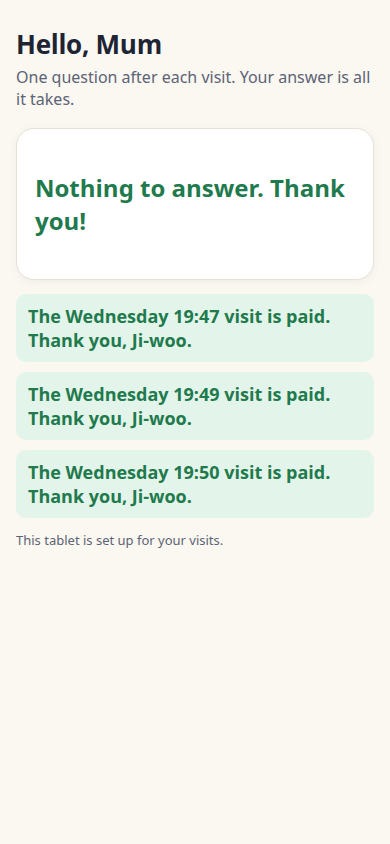
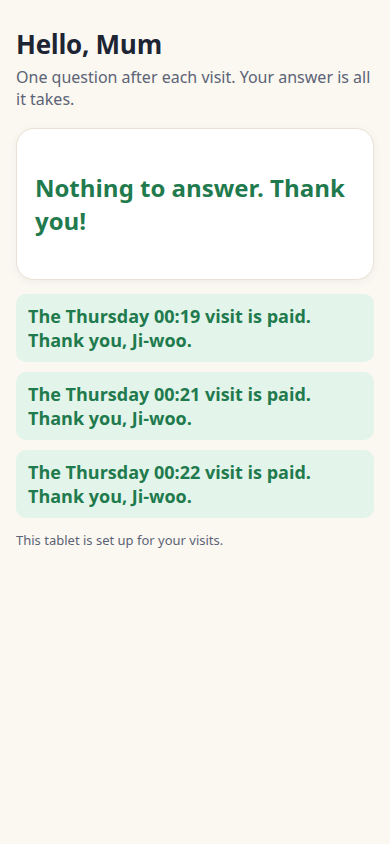
v2 testnet run: payment amount + settlement on chain, agency acks, cap trip, failure modes

Changed region(s): [[0.1538, 0.5545, 0.8308, 0.5853], [0.1538, 0.4621, 0.8308, 0.4929], [0.1538, 0.3697, 0.8308, 0.4005]]

diff --git a/demo/index.html b/demo/index.html
@@ -10,51 +10,56 @@
 <h1>Pay mum's carer only for the visits that happened.</h1>
 <p class="sub">Mina works in Seoul. Her mother lives in Busan, and a carer visits her. Mum answers one question after each visit, and Mina's agent pays the agency's agent through HSP only for the visits Mum confirms.</p>
 
-<section class="card note"><p><b>This page is the record of one real run.</b> 25 Nov 2026, 21:46:30 to 21:59:39 KST, on <b>HSK Chain testnet</b> with <b>real HSP QA payments</b> (HSP's QA environment settles in Circle test USDC on Ethereum Sepolia). It is read-only: it holds no keys and cannot pay anyone.</p></section>
+<section class="card note"><p><b>This page is the record of one real run.</b> 26 Nov 2026, 02:18:33 to 02:31:20 KST, on <b>HSK Chain testnet</b> with <b>real HSP QA payments</b> (HSP's QA environment settles in test USDC on Ethereum Sepolia). It is read-only: it holds no keys and cannot pay anyone.</p></section>
 
-<section class="card"><h2>The run in 71 seconds</h2><video controls preload="none" playsinline width="1920" height="1080" poster="poster.jpg" src="caremandate-demo.mp4"></video><p class="small">Captions only, no sound. <a href="caremandate-demo.mp4">Open the video file</a>.</p></section>
+<section class="card"><h2>The first testnet run, filmed (71 s)</h2><video controls preload="none" playsinline width="1920" height="1080" poster="poster.jpg" src="caremandate-demo.mp4"></video><p class="small">Captions only, no sound. Filmed on an earlier run (<code>testnet-20261125T1246Z</code>, before the payment-record, cap and agency-receipt features); the record below is of this run. <a href="caremandate-demo.mp4">Open the video file</a>.</p></section>
 
 <section class="card stat" aria-label="Run summary"><div><b>5</b>visits</div><div><b>4</b>paid via HSP</div><div><b>1</b>not paid</div><div><b>1</b>held for Mina</div></section>
 
 <section class="card"><h2>Mina's rules, on chain</h2>
-<dl><div><dt>Contract (HSK Chain testnet)</dt><dd><a href="https://testnet-explorer.hsk.xyz/address/0x203351f807514944873b49cd9d36b5af74de094c" rel="noopener"><code>0x203351f807514944873b49cd9d36b5af74de094c</code></a></dd></div>
-<div><dt>Deployed</dt><dd><a href="https://testnet-explorer.hsk.xyz/tx/0xf211dc8ae750822fb20a22ae7292c204c28286af0079761f3a7292e4241718b5" rel="noopener">0xf211dc…1718b5</a></dd></div>
-<div><dt>Mandate 1</dt><dd><a href="https://testnet-explorer.hsk.xyz/tx/0xfcb0a48dddce8da19fc93a86b0852fa0d3f69560a7ba0523a358f2ef7f304d3f" rel="noopener">0xfcb0a4…304d3f</a><span class="h">at most 3 visits a week, at most 45,000 won a visit; only the agency <code>0xA8A4…62a48D</code> can be paid; only Mum's tablet key <code>0x4Af9…39FbE9</code> can confirm</span></dd></div></dl>
+<dl><div><dt>Contract (HSK Chain testnet)</dt><dd><a href="https://testnet-explorer.hsk.xyz/address/0xa95ac53799f6770a2a907487edc367c26795fd26" rel="noopener"><code>0xa95ac53799f6770a2a907487edc367c26795fd26</code></a></dd></div>
+<div><dt>Deployed</dt><dd><a href="https://testnet-explorer.hsk.xyz/tx/0xc9f0258db0331eea736ca8a7f2ed8541bb4127461683d69b51f2f02f254280db" rel="noopener">0xc9f025…4280db</a></dd></div>
+<div><dt>Mandate 1</dt><dd><a href="https://testnet-explorer.hsk.xyz/tx/0x0e7e5414c3dc0fc0dbc794d18d3f810a8bc514ec1afeb5ef228c6505824c878a" rel="noopener">0x0e7e54…4c878a</a><span class="h">at most 3 visits a week, at most 45,000 won a visit; only the agency <code>0xA8A4…62a48D</code> can be paid; only Mum's tablet key <code>0x4e99…0Ea912</code> can confirm</span></dd></div>
+<div><dt>Won to test USDC, on chain</dt><dd>743273 USDC units per 1,000,000 won<span class="h">1345.4 won per dollar (ECB reference rate via api.frankfurter.dev, 2026-11-25), testnet scale 1:1000: 45,000 won = $0.03 test USDC (at full scale $33.44). The contract refuses to record a payment above a visit's won price at this rate + 5%.</span></dd></div>
+<div><dt>Over the cap: refused</dt><dd><b class="no">46,000 won visit refused</b> by the contract (<code>BadInput</code>); it never became a visit<span class="h">Re-checked when this page was built: the agency posting 46,000 won to this contract still reverts.</span></dd></div></dl>
 <p class="small">The contract holds no money: HSP moves it. The contract decides what may be paid, and records each HSP payment against its visit.</p></section>
 
 <h2 class="sec">Every visit</h2>
[1 lines of base64/hex data omitted]
-<div class="vh"><div><h3>Visit 1</h3><p class="small">Wednesday 25 Nov, 19:47 KST · Ji-woo · 45,000 won</p></div><span class="pill Paid">paid</span></div>
-<dl><div><dt>Agency agent posts the visit</dt><dd><a href="https://testnet-explorer.hsk.xyz/tx/0x65b97c3ab8b23228727c2cabb827d14a823353b771669663c8823f7f548d5631" rel="noopener">0x65b97c…8d5631</a><span class="h">receipt 0x47aa36d9…7dea2d</span></dd></div><div><dt>Mum answers on her tablet</dt><dd><b class="ok">Yes</b> · <a href="https://testnet-explorer.hsk.xyz/tx/0x650e4016c5bf1b30b1eea51c0c11877388f454407aebafa6edcfeb2b3fb85cfe" rel="noopener">0x650e40…b85cfe</a><span class="h">21:47:19 KST, signed by the tablet, relayed by Mina's agent</span></dd></div><div><dt>HSP Agentic Payment</dt><dd><b class="ok">payment-safe</b>, 178 s after the order was created<span class="h">flow <code>91545a99-9d3b-4e2b-8381-376b66abab3d</code></span><span class="h">request <code>CARE-PR-20261125124720-2fedbe</code></span></dd></div><div><dt>Money moved (Ethereum Sepolia)</dt><dd>$0.01 test USDC · <a href="https://sepolia.etherscan.io/tx/0x64bdbedcd8ac24eb5458fb8d1d46986deac4ac761ef677fe3164520754b90fb2" rel="noopener">0x64bdbe…b90fb2</a></dd></div><div><dt>Paid, recorded on HSK Chain</dt><dd>markPaid · <a href="https://testnet-explorer.hsk.xyz/tx/0x511b975d8c203ac17511a3adbeb020fe380a1acfd82422c6b2e45a7aaf011075" rel="noopener">0x511b97…011075</a><span class="h">paymentRef = keccak256(flow id) = <code>0x1ae56093…436c74</code></span></dd></div></dl>
[1 lines of base64/hex data omitted]
+<div class="vh"><div><h3>Visit 1</h3><p class="small">Thursday 26 Nov, 00:19 KST · Ji-woo · 45,000 won</p></div><span class="pill Paid">paid</span></div>
+<dl><div><dt>Agency agent posts the visit</dt><dd><a href="https://testnet-explorer.hsk.xyz/tx/0x13b2471222fe2ffac72bda44c010c74df23f24ef9ecd93a6572feb6bd9e8ed64" rel="noopener">0x13b247…e8ed64</a><span class="h">receipt 0x3455cc5a…1f9d1c</span></dd></div><div><dt>Mum answers on her tablet</dt><dd><b class="ok">Yes</b> · <a href="https://testnet-explorer.hsk.xyz/tx/0x7914fc33163a715165ee92d434eb92785afa9fa4c49d466f717f178744d55c37" rel="noopener">0x7914fc…d55c37</a><span class="h">02:19:40 KST, signed by the tablet, relayed by Mina's agent</span></dd></div><div><dt>HSP Agentic Payment</dt><dd><b class="ok">payment-safe</b>, 164 s after the order was created<span class="h">flow <code>e9f4e4d6-8439-4d61-abdb-825c2fad78b2</code></span><span class="h">request <code>CARE-PR-20261125171943-477307</code></span></dd></div><div><dt>Money moved (Ethereum Sepolia)</dt><dd>$0.03 test USDC · <a href="https://sepolia.etherscan.io/tx/0x7b5a9a9e3af4362bbd1231c0096735d34236845c242a5dfa100928ebe897f5bd" rel="noopener">0x7b5a9a…97f5bd</a><span class="h">45,000 won at the mandate rate = at most $0.03; asked HSP for $0.03</span></dd></div><div><dt>Paid, recorded on HSK Chain</dt><dd>markPaid · <a href="https://testnet-explorer.hsk.xyz/tx/0x2dda460075772a148a5c17ff4119cdf18d90f472f389e79ac1f4819ca2225f0c" rel="noopener">0x2dda46…225f0c</a><span class="h">paymentRef = keccak256(flow id) = <code>0x4cdb0339…adcb92</code></span></dd></div><div><dt>Agency's agent confirms receipt</dt><dd>ackPaid · <a href="https://testnet-explorer.hsk.xyz/tx/0x6d48612981cf98887af6e9fa1cf0765b9a785119233267112f997843603159ec" rel="noopener">0x6d4861…3159ec</a><span class="h">after checking the Ethereum Sepolia transfer itself; 02:22:36 KST</span></dd></div></dl>
 <p class="live small" aria-live="polite"></p></article>
[1 lines of base64/hex data omitted]
-<div class="vh"><div><h3>Visit 2</h3><p class="small">Wednesday 25 Nov, 19:48 KST · Ji-woo · 45,000 won</p></div><span class="pill Rejected">not paid</span></div>
-<dl><div><dt>Agency agent posts the visit</dt><dd><a href="https://testnet-explorer.hsk.xyz/tx/0xd217f190f7a861e0b3b0bd319e51f870c3ae7475b4ffc691a4dfbce7049b935d" rel="noopener">0xd217f1…9b935d</a><span class="h">receipt 0xb85bc263…7a403b</span></dd></div><div><dt>Mum answers on her tablet</dt><dd><b class="no">No</b> · <a href="https://testnet-explorer.hsk.xyz/tx/0xff38a21788d422a8760131b5b5be3bd1306fde0141f3656a4ae04064e8fe43f2" rel="noopener">0xff38a2…fe43f2</a><span class="h">21:47:27 KST, signed by the tablet, relayed by Mina's agent</span></dd></div><div><dt>Payment</dt><dd><b class="no">none</b><span class="h">The contract marks the visit Rejected; it can never be paid.</span></dd></div></dl>
+<div class="vh"><div><h3>Visit 2</h3><p class="small">Thursday 26 Nov, 00:20 KST · Ji-woo · 45,000 won</p></div><span class="pill Rejected">not paid</span></div>
+<dl><div><dt>Agency agent posts the visit</dt><dd><a href="https://testnet-explorer.hsk.xyz/tx/0xbcc348449eeffc1cf13c40bf7c9d0382b1b5483825b13f741a8513c2fb2addce" rel="noopener">0xbcc348…2addce</a><span class="h">receipt 0xd3b52a73…bc3fc0</span></dd></div><div><dt>Mum answers on her tablet</dt><dd><b class="no">No</b> · <a href="https://testnet-explorer.hsk.xyz/tx/0x4b33f2ee9f1a9bcea970d39806944210403a8cacdfbe1603a5b29cc47736f25f" rel="noopener">0x4b33f2…36f25f</a><span class="h">02:19:48 KST, signed by the tablet, relayed by Mina's agent</span></dd></div><div><dt>Payment</dt><dd><b class="no">none</b><span class="h">The contract marks the visit Rejected; it can never be paid.</span></dd></div></dl>
 <p class="live small" aria-live="polite"></p></article>
[1 lines of base64/hex data omitted]
-<div class="vh"><div><h3>Visit 3</h3><p class="small">Wednesday 25 Nov, 19:49 KST · Ji-woo · 45,000 won</p></div><span class="pill Paid">paid</span></div>
-<dl><div><dt>Agency agent posts the visit</dt><dd><a href="https://testnet-explorer.hsk.xyz/tx/0x962f933755e56e083e03e1737ceb7283df1a5202d348b4392fc5a83ca5715067" rel="noopener">0x962f93…715067</a><span class="h">receipt 0x6b741bbf…35cff4</span></dd></div><div><dt>Mum answers on her tablet</dt><dd><b class="ok">Yes</b> · <a href="https://testnet-explorer.hsk.xyz/tx/0x70a721ba1515793aad8609b4c8e2bf920aa6365daf7461c74eb051b505c1cee0" rel="noopener">0x70a721…c1cee0</a><span class="h">21:47:34 KST, signed by the tablet, relayed by Mina's agent</span></dd></div><div><dt>HSP Agentic Payment</dt><dd><b class="ok">payment-safe</b>, 179 s after the order was created<span class="h">flow <code>43cf17cd-7d5b-49c5-997d-516e7f475a2f</code></span><span class="h">request <code>CARE-PR-20261125125024-87e201</code></span></dd></div><div><dt>Money moved (Ethereum Sepolia)</dt><dd>$0.01 test USDC · <a href="https://sepolia.etherscan.io/tx/0xcd208be83744af06f1faf1c30daf7f3522fec9778aa0f7b99f22fb24289b2d71" rel="noopener">0xcd208b…9b2d71</a></dd></div><div><dt>Paid, recorded on HSK Chain</dt><dd>markPaid · <a href="https://testnet-explorer.hsk.xyz/tx/0xf44748f40d3e2ed12b3768f8235e68f57909b8ebd4f0d3ce47d4ad9c525a8c00" rel="noopener">0xf44748…5a8c00</a><span class="h">paymentRef = keccak256(flow id) = <code>0xbd366be6…3e2c56</code></span></dd></div></dl>
[1 lines of base64/hex data omitted]
+<div class="vh"><div><h3>Visit 3</h3><p class="small">Thursday 26 Nov, 00:21 KST · Ji-woo · 45,000 won</p></div><span class="pill Paid">paid</span></div>
+<dl><div><dt>Agency agent posts the visit</dt><dd><a href="https://testnet-explorer.hsk.xyz/tx/0x3c61a13a28709d65278e29bd5b5b764085320718ab1f66db81dd871690d05b20" rel="noopener">0x3c61a1…d05b20</a><span class="h">receipt 0xde6a37f3…7500b5</span></dd></div><div><dt>Mum answers on her tablet</dt><dd><b class="ok">Yes</b> · <a href="https://testnet-explorer.hsk.xyz/tx/0xffd0c2e4d374dcff1d4d2bc4eb96ebb79ef629b98100114e39c8a1f4259a113e" rel="noopener">0xffd0c2…9a113e</a><span class="h">02:19:56 KST, signed by the tablet, relayed by Mina's agent</span></dd></div><div><dt>HSP Agentic Payment</dt><dd><b class="ok">payment-safe</b>, 166 s after the order was created<span class="h">flow <code>df4fd764-5c39-462c-86a2-5482ebc9e589</code></span><span class="h">request <code>CARE-PR-20261125172231-e26762</code></span></dd></div><div><dt>Money moved (Ethereum Sepolia)</dt><dd>$0.03 test USDC · <a href="https://sepolia.etherscan.io/tx/0x13d23bf61392002b2a427f03e534af818d0ca8d02daf9104a5cb1ec90c2d5ef2" rel="noopener">0x13d23b…2d5ef2</a><span class="h">45,000 won at the mandate rate = at most $0.03; asked HSP for $0.03</span></dd></div><div><dt>Paid, recorded on HSK Chain</dt><dd>markPaid · <a href="https://testnet-explorer.hsk.xyz/tx/0x51576c840c03d6b3f5ac8bf3e07bdce0fee98ef1d428d0f9e1f8ea6ff6c75631" rel="noopener">0x51576c…c75631</a><span class="h">paymentRef = keccak256(flow id) = <code>0x421fbaf4…609a55</code></span></dd></div><div><dt>Agency's agent confirms receipt</dt><dd>ackPaid · <a href="https://testnet-explorer.hsk.xyz/tx/0xffd5f7f4ccae9eb011340e72d00b00e728be3b4cf21f888511f2bd95c43a97a7" rel="noopener">0xffd5f7…3a97a7</a><span class="h">after checking the Ethereum Sepolia transfer itself; 02:25:32 KST</span></dd></div></dl>
 <p class="live small" aria-live="polite"></p></article>
[1 lines of base64/hex data omitted]
-<div class="vh"><div><h3>Visit 4</h3><p class="small">Wednesday 25 Nov, 19:50 KST · Ji-woo · 45,000 won</p></div><span class="pill Paid">paid</span></div>
-<dl><div><dt>Agency agent posts the visit</dt><dd><a href="https://testnet-explorer.hsk.xyz/tx/0x75b590b2c2e4a4e7ff765e7284da0c37bac22080068994784e6954c6861d5503" rel="noopener">0x75b590…1d5503</a><span class="h">receipt 0xd1343c50…83b3c7</span></dd></div><div><dt>Mum answers on her tablet</dt><dd><b class="ok">Yes</b> · <a href="https://testnet-explorer.hsk.xyz/tx/0xfdd8c579c2de31bb2865a7615d2fc78918db74a5a326e117deceface122eeb4b" rel="noopener">0xfdd8c5…2eeb4b</a><span class="h">21:47:43 KST, signed by the tablet, relayed by Mina's agent</span></dd></div><div><dt>HSP Agentic Payment</dt><dd><b class="ok">payment-safe</b>, 182 s after the order was created<span class="h">flow <code>1cd6ed0b-09d2-4991-88f0-85d76037ab7b</code></span><span class="h">request <code>CARE-PR-20261125125325-7e26b5</code></span></dd></div><div><dt>Money moved (Ethereum Sepolia)</dt><dd>$0.01 test USDC · <a href="https://sepolia.etherscan.io/tx/0x2c7147212b70fdd17d58c00f340cfaf1b9494f0d20aab29a34db35da50bb3d31" rel="noopener">0x2c7147…bb3d31</a></dd></div><div><dt>Paid, recorded on HSK Chain</dt><dd>markPaid · <a href="https://testnet-explorer.hsk.xyz/tx/0xa56181dd4dda7f2bb8f9ca6fbc03061ad02a30d8d6a20ef076bb97bc9f84cd75" rel="noopener">0xa56181…84cd75</a><span class="h">paymentRef = keccak256(flow id) = <code>0x4ea2ae1c…fd4b00</code></span></dd></div></dl>
[1 lines of base64/hex data omitted]
+<div class="vh"><div><h3>Visit 4</h3><p class="small">Thursday 26 Nov, 00:22 KST · Ji-woo · 45,000 won</p></div><span class="pill Paid">paid</span></div>
+<dl><div><dt>Agency agent posts the visit</dt><dd><a href="https://testnet-explorer.hsk.xyz/tx/0xabbf5f5a3f250b1470b283dd0ed65aecb824fbc81aeb67f5e672a59161dd29fb" rel="noopener">0xabbf5f…dd29fb</a><span class="h">receipt 0x61a6f174…c23bf4</span></dd></div><div><dt>Mum answers on her tablet</dt><dd><b class="ok">Yes</b> · <a href="https://testnet-explorer.hsk.xyz/tx/0xd535c917c159d78f95490e0e38bcf5176211944a5db0621aeb83cdb518c6e31d" rel="noopener">0xd535c9…c6e31d</a><span class="h">02:20:05 KST, signed by the tablet, relayed by Mina's agent</span></dd></div><div><dt>HSP Agentic Payment</dt><dd><b class="ok">payment-safe</b>, 184 s after the order was created<span class="h">flow <code>2832b12d-b9fb-49a7-8f8d-83c48b5ef793</code></span><span class="h">request <code>CARE-PR-20261125172521-8895e5</code></span></dd></div><div><dt>Money moved (Ethereum Sepolia)</dt><dd>$0.03 test USDC · <a href="https://sepolia.etherscan.io/tx/0x9730c4ed00964fdc00ae8c91daa3811fbe27eaa18059bc8ac8a690d91b0347d1" rel="noopener">0x9730c4…0347d1</a><span class="h">45,000 won at the mandate rate = at most $0.03; asked HSP for $0.03</span></dd></div><div><dt>Paid, recorded on HSK Chain</dt><dd>markPaid · <a href="https://testnet-explorer.hsk.xyz/tx/0x930a1f04efde37b9dc4c9eaedbac41e307d4b9a75d7174d0aa6ba3194d84fa8f" rel="noopener">0x930a1f…84fa8f</a><span class="h">paymentRef = keccak256(flow id) = <code>0x131ece36…c204c3</code></span></dd></div><div><dt>Agency's agent confirms receipt</dt><dd>ackPaid · <a href="https://testnet-explorer.hsk.xyz/tx/0xf7fa50e9f3bd1a72a91ad84f807926ab792b7e09f2e91d8a8f9c2c0c6960dc3c" rel="noopener">0xf7fa50…60dc3c</a><span class="h">after checking the Ethereum Sepolia transfer itself; 02:28:37 KST</span></dd></div></dl>
 <p class="live small" aria-live="polite"></p></article>
[1 lines of base64/hex data omitted]
-<div class="vh"><div><h3>Visit 5</h3><p class="small">Wednesday 25 Nov, 19:51 KST · Ji-woo · 45,000 won</p></div><span class="pill Paid">paid</span></div>
-<dl><div><dt>Agency agent posts the visit</dt><dd><a href="https://testnet-explorer.hsk.xyz/tx/0x72ada65dd8fdb6661d5ef5d97147e2320d25f18d6c1fa6a2667228d7416b58c1" rel="noopener">0x72ada6…6b58c1</a><span class="h">receipt 0xdde17905…833c1c</span></dd></div><div><dt>Mum answers on her tablet</dt><dd><b class="ok">Yes</b> · <a href="https://testnet-explorer.hsk.xyz/tx/0x630f397f90fba7c347b1da18a71934740e5f39ae743d49760d35099bacbf1b8e" rel="noopener">0x630f39…bf1b8e</a><span class="h">21:47:54 KST, signed by the tablet, relayed by Mina's agent</span></dd></div><div><dt>4th visit this week: held</dt><dd>Mina approved · <a href="https://testnet-explorer.hsk.xyz/tx/0xaf4a360fa40b6cee72df52ee112dbeb442cc9b6cdcd1b2d51000c26d0e8a2fa2" rel="noopener">0xaf4a36…8a2fa2</a><span class="h">21:48:03 KST</span></dd></div><div><dt>HSP Agentic Payment</dt><dd><b class="ok">payment-safe</b>, 183 s after the order was created<span class="h">flow <code>75ddb56a-f84e-4911-a4e9-4f1298c174cd</code></span><span class="h">request <code>CARE-PR-20261125125632-260798</code></span></dd></div><div><dt>Money moved (Ethereum Sepolia)</dt><dd>$0.01 test USDC · <a href="https://sepolia.etherscan.io/tx/0x5d689123e1f63bf79783466eafbd27b1040af51f3292a34b7deb8ea641821778" rel="noopener">0x5d6891…821778</a></dd></div><div><dt>Paid, recorded on HSK Chain</dt><dd>markPaid · <a href="https://testnet-explorer.hsk.xyz/tx/0xdfb466d5fbc18776efdb8b7a932d3a6f2d4cd9d554f3021e6a67fed7a4a2aef9" rel="noopener">0xdfb466…a2aef9</a><span class="h">paymentRef = keccak256(flow id) = <code>0xb05c3dd7…a1c985</code></span></dd></div></dl>
[1 lines of base64/hex data omitted]
+<div class="vh"><div><h3>Visit 5</h3><p class="small">Thursday 26 Nov, 00:23 KST · Ji-woo · 45,000 won</p></div><span class="pill Paid">paid</span></div>
+<dl><div><dt>Agency agent posts the visit</dt><dd><a href="https://testnet-explorer.hsk.xyz/tx/0x1119a12d6c284b24c58e358d03aefe2543c02565d524575f6c41471217ab5129" rel="noopener">0x1119a1…ab5129</a><span class="h">receipt 0xaac1598c…6bcdfd</span></dd></div><div><dt>Mum answers on her tablet</dt><dd><b class="ok">Yes</b> · <a href="https://testnet-explorer.hsk.xyz/tx/0xb3382118ebf2ab63cccba8746cfce2149f62edb7df10689da346c50a11f97c0b" rel="noopener">0xb33821…f97c0b</a><span class="h">02:20:15 KST, signed by the tablet, relayed by Mina's agent</span></dd></div><div><dt>4th visit this week: held</dt><dd>Mina approved · <a href="https://testnet-explorer.hsk.xyz/tx/0xa070a55215a1f6da6138bd9fa123d701601b5c5c7044cc645c0f8975a42f4211" rel="noopener">0xa070a5…2f4211</a><span class="h">02:20:27 KST</span></dd></div><div><dt>HSP Agentic Payment</dt><dd><b class="ok">payment-safe</b>, 170 s after the order was created<span class="h">flow <code>16b6267b-be15-40d3-a67c-6b841ebadc07</code></span><span class="h">request <code>CARE-PR-20261125172830-064199</code></span></dd></div><div><dt>Money moved (Ethereum Sepolia)</dt><dd>$0.03 test USDC · <a href="https://sepolia.etherscan.io/tx/0x93a797484a0bbe7278d2aa6308486d2b3d8cdf8353986ab5b41bf59af16339ad" rel="noopener">0x93a797…6339ad</a><span class="h">45,000 won at the mandate rate = at most $0.03; asked HSP for $0.03</span></dd></div><div><dt>Paid, recorded on HSK Chain</dt><dd>markPaid · <a href="https://testnet-explorer.hsk.xyz/tx/0xa5ea098f952d77964f9aa1473a1253a1f12792d581d8437f97e79aee993994f3" rel="noopener">0xa5ea09…3994f3</a><span class="h">paymentRef = keccak256(flow id) = <code>0xe9228570…81bb44</code></span></dd></div><div><dt>Agency's agent confirms receipt</dt><dd>ackPaid · <a href="https://testnet-explorer.hsk.xyz/tx/0x1334bda3713d782bc7edb4c688a0beb38aa0c0efb3226df9877b81ef108867cb" rel="noopener">0x1334bd…8867cb</a><span class="h">after checking the Ethereum Sepolia transfer itself; 02:31:29 KST</span></dd></div></dl>
 <p class="live small" aria-live="polite"></p></article>
 
 <section class="card"><h2>What you see on the phones</h2><p class="small">Screenshots taken by the end-to-end test during this run (390 px wide, the size of a phone).</p>
 <div class="shots"><figure><img src="shots/mum-question.png" alt="Mum&#39;s tablet: one question, Yes or No" loading="lazy" width="390"><figcaption>Mum&#39;s tablet: one question, Yes or No</figcaption></figure><figure><img src="shots/mum-paying.png" alt="After Yes: paying Ji-woo via HSP, about 3 minutes" loading="lazy" width="390"><figcaption>After Yes: paying Ji-woo via HSP, about 3 minutes</figcaption></figure><figure><img src="shots/mum-done.png" alt="Mum&#39;s tablet when the payments are safe" loading="lazy" width="390"><figcaption>Mum&#39;s tablet when the payments are safe</figcaption></figure><figure><img src="shots/mina-held.png" alt="Mina&#39;s page: 4th visit waits for her Approve" loading="lazy" width="390"><figcaption>Mina&#39;s page: 4th visit waits for her Approve</figcaption></figure><figure><img src="shots/mina-after.png" alt="Mina&#39;s page at the end: 4 paid, 1 not paid" loading="lazy" width="390"><figcaption>Mina&#39;s page at the end: 4 paid, 1 not paid</figcaption></figure></div></section>
 
-<section class="card"><h2>First real HSP payment</h2><p>Before the full run, one standalone HSP QA payment: flow <code>dbc201e5-5bdb-4829-ad41-71e34c125d83</code>, request <code>CARE-PR-20261125060242-e4a371</code>, $0.01 test USDC, <b class="ok">payment-safe</b> · <a href="https://sepolia.etherscan.io/tx/0x75283f5c64973184c737acdaeb5e8ac8d14a75abf3fd5daeeb0ba13355b870a5" rel="noopener">0x75283f…b870a5</a></p></section>
+
+
+<section class="card"><h2>When HSP fails</h2><p class="small">Offline end-to-end tests (local chain, a stand-in HSP that settles real EIP-3009 transfers), run from the repo with <code>CM_SCENARIO=&lt;name&gt; bash app/test/e2e-offline-qa.sh</code>. In each, Mum's yes leaves the visit <b>Confirmed and unpaid</b> on chain with a PaymentIssue record, both pages say so, and nothing is ever paid twice.</p>
+<dl><div><dt>HSP payment-failed, then an automatic retry</dt><dd><b class="ok">PASS</b>, 31 checks · paid 4, issues recorded on chain 1<span class="h">The first flow fails with no money moved; a new flow pays the visit once. 5 signatures, 4 transfers.</span></dd></div><div><dt>HSP quotes more than the mandate</dt><dd><b class="ok">PASS</b>, 9 checks · paid 0, issues recorded on chain 3<span class="h">The signing firewall refuses before anything is signed; Mina can retry by hand.</span></dd></div><div><dt>HSP never confirms (timeout)</dt><dd><b class="ok">PASS</b>, 13 checks · paid 0, issues recorded on chain 2<span class="h">The flow stays unsettled; the server keeps querying the same flow and never signs or submits again.</span></dd></div></dl></section>
 
 <section class="card"><h2>Check it yourself</h2>
 <p class="small">Every link above opens a public explorer. This button reads <code>visits(id)</code> from the contract right now (HSK Chain testnet RPC, read-only) and compares each status and payment reference with this page.</p>
-<button id="check" class="go" type="button" data-rpc="https://testnet.hsk.xyz" data-contract="0x203351f807514944873b49cd9d36b5af74de094c" data-sel="0x09c55a13" hidden>Check on HSK Chain now</button>
+<button id="check" class="go" type="button" data-rpc="https://testnet.hsk.xyz" data-contract="0xa95ac53799f6770a2a907487edc367c26795fd26" data-sel="0x09c55a13" hidden>Check on HSK Chain now</button>
 <noscript><p class="small">The check needs JavaScript; the explorer links work without it.</p></noscript>
 <p id="checkout" class="small" aria-live="polite"></p></section>
 
-<footer class="small"><p>Code: <a href="https://github.com/swiftbotlabs/caremandate" rel="noopener">github.com/swiftbotlabs/caremandate</a> · Built by Swift Bot Labs for HSK Chain Horizon · Seoul. Times are Korea time (KST). HSK Chain mainnet deployment follows the results: the organiser covers winning teams' mainnet gas.</p>
-<p>All 32 on-chain facts on this page were re-checked against HSK Chain testnet and Ethereum Sepolia when it was built.</p></footer>
+<footer class="small"><p>Code: <a href="https://github.com/swiftbotlabs/caremandate" rel="noopener">github.com/swiftbotlabs/caremandate</a> · Built by Swift Bot Labs for HSK Chain Horizon · Seoul. Times are Korea time (KST). Mainnet: the official rules say "Winning teams must deploy their projects on HSK Chain mainnet to claim a prize" and "Teams selected for the demo must deploy their smart contracts to HSK Chain Mainnet" (<a href="https://dorahacks.io/hackathon/hskchainseoul" rel="noopener">DoraHacks HSK Chain Seoul</a>, Prizes and Submission Requirements); the mainnet deploy is rehearsed on a fork of HSK Chain mainnet (chain 177) and runs when we are selected.</p>
+<p>All 48 on-chain facts on this page were re-checked against HSK Chain testnet and Ethereum Sepolia when it was built.</p></footer>
 </main><script src="live.js" defer></script></body></html>

diff --git a/README.md b/README.md
@@ -66,12 +66,14 @@ under the team name `Swift Bot Labs (CareMandate)`.
 
 ## Status
 <!-- STATUS:BEGIN -->
-- Full run on **HSK Chain testnet with real HSP QA payments** (25 Nov 2026, contract `0x203351f807514944873b49cd9d36b5af74de094c`):
-  5 visits; Mum said Yes to 4 and No to 1; visits 1, 3, 4 and 5 paid through HSP (each `payment-safe`, Sepolia tx + `markPaid` on HSK
-  Chain); visit 2 never paid; visit 5 (the 4th that week) held until Mina approved it. The full record, with every flow id and tx link:
-  https://apps.swiftbotlab.workers.dev/caremandate/ (built by `app/demo-page.mjs`, which re-checks every fact on chain first and refuses to
-  write the page on any mismatch). Run files: `evidence/testnet-20261125T1246Z/`.
-- HSK Chain mainnet: the same contract is deployed when the project is selected for the demo (the organiser covers winning teams' mainnet gas).
+- Full run on **HSK Chain testnet with real HSP QA payments settling in Circle test USDC on Ethereum Sepolia** (25 Nov 2026, contract `0xa95ac53799f6770a2a907487edc367c26795fd26`):
+  5 visits; Mum said Yes to 4 and No to 1; visits 1, 3, 4, 5 paid through HSP (each `payment-safe`, 0.12 test USDC in total, the
+  settlement tx and the amount recorded by `markPaid` on HSK Chain); each payment acknowledged on chain by the agency's own agent after it
+  checked the transfer itself; a 46,000-won visit refused by the contract (cap 45,000 won); mandate rate 743273 USDC units
+  per 1,000,000 won (1345.4 KRW/USD, ECB reference rate via api.frankfurter.dev, 2026-11-25, testnet scale 1:1000). Record:
+  https://apps.swiftbotlab.workers.dev/caremandate/ (built by `app/demo-page.mjs`, which re-checks every fact on chain first). Run files:
+  `evidence/testnet-20261125T1718Z/`. Failure modes (offline, one command each): `evidence/offline-*/gate.json`.
+- HSK Chain mainnet: rehearsed on a fork of mainnet (`app/test/fork-mainnet-rehearsal.sh`, `evidence/fork-mainnet-*/rehearsal.json`); deployed when we are selected for the demo, as the rules require of demo teams.
 <!-- STATUS:END -->
 
 ## License
